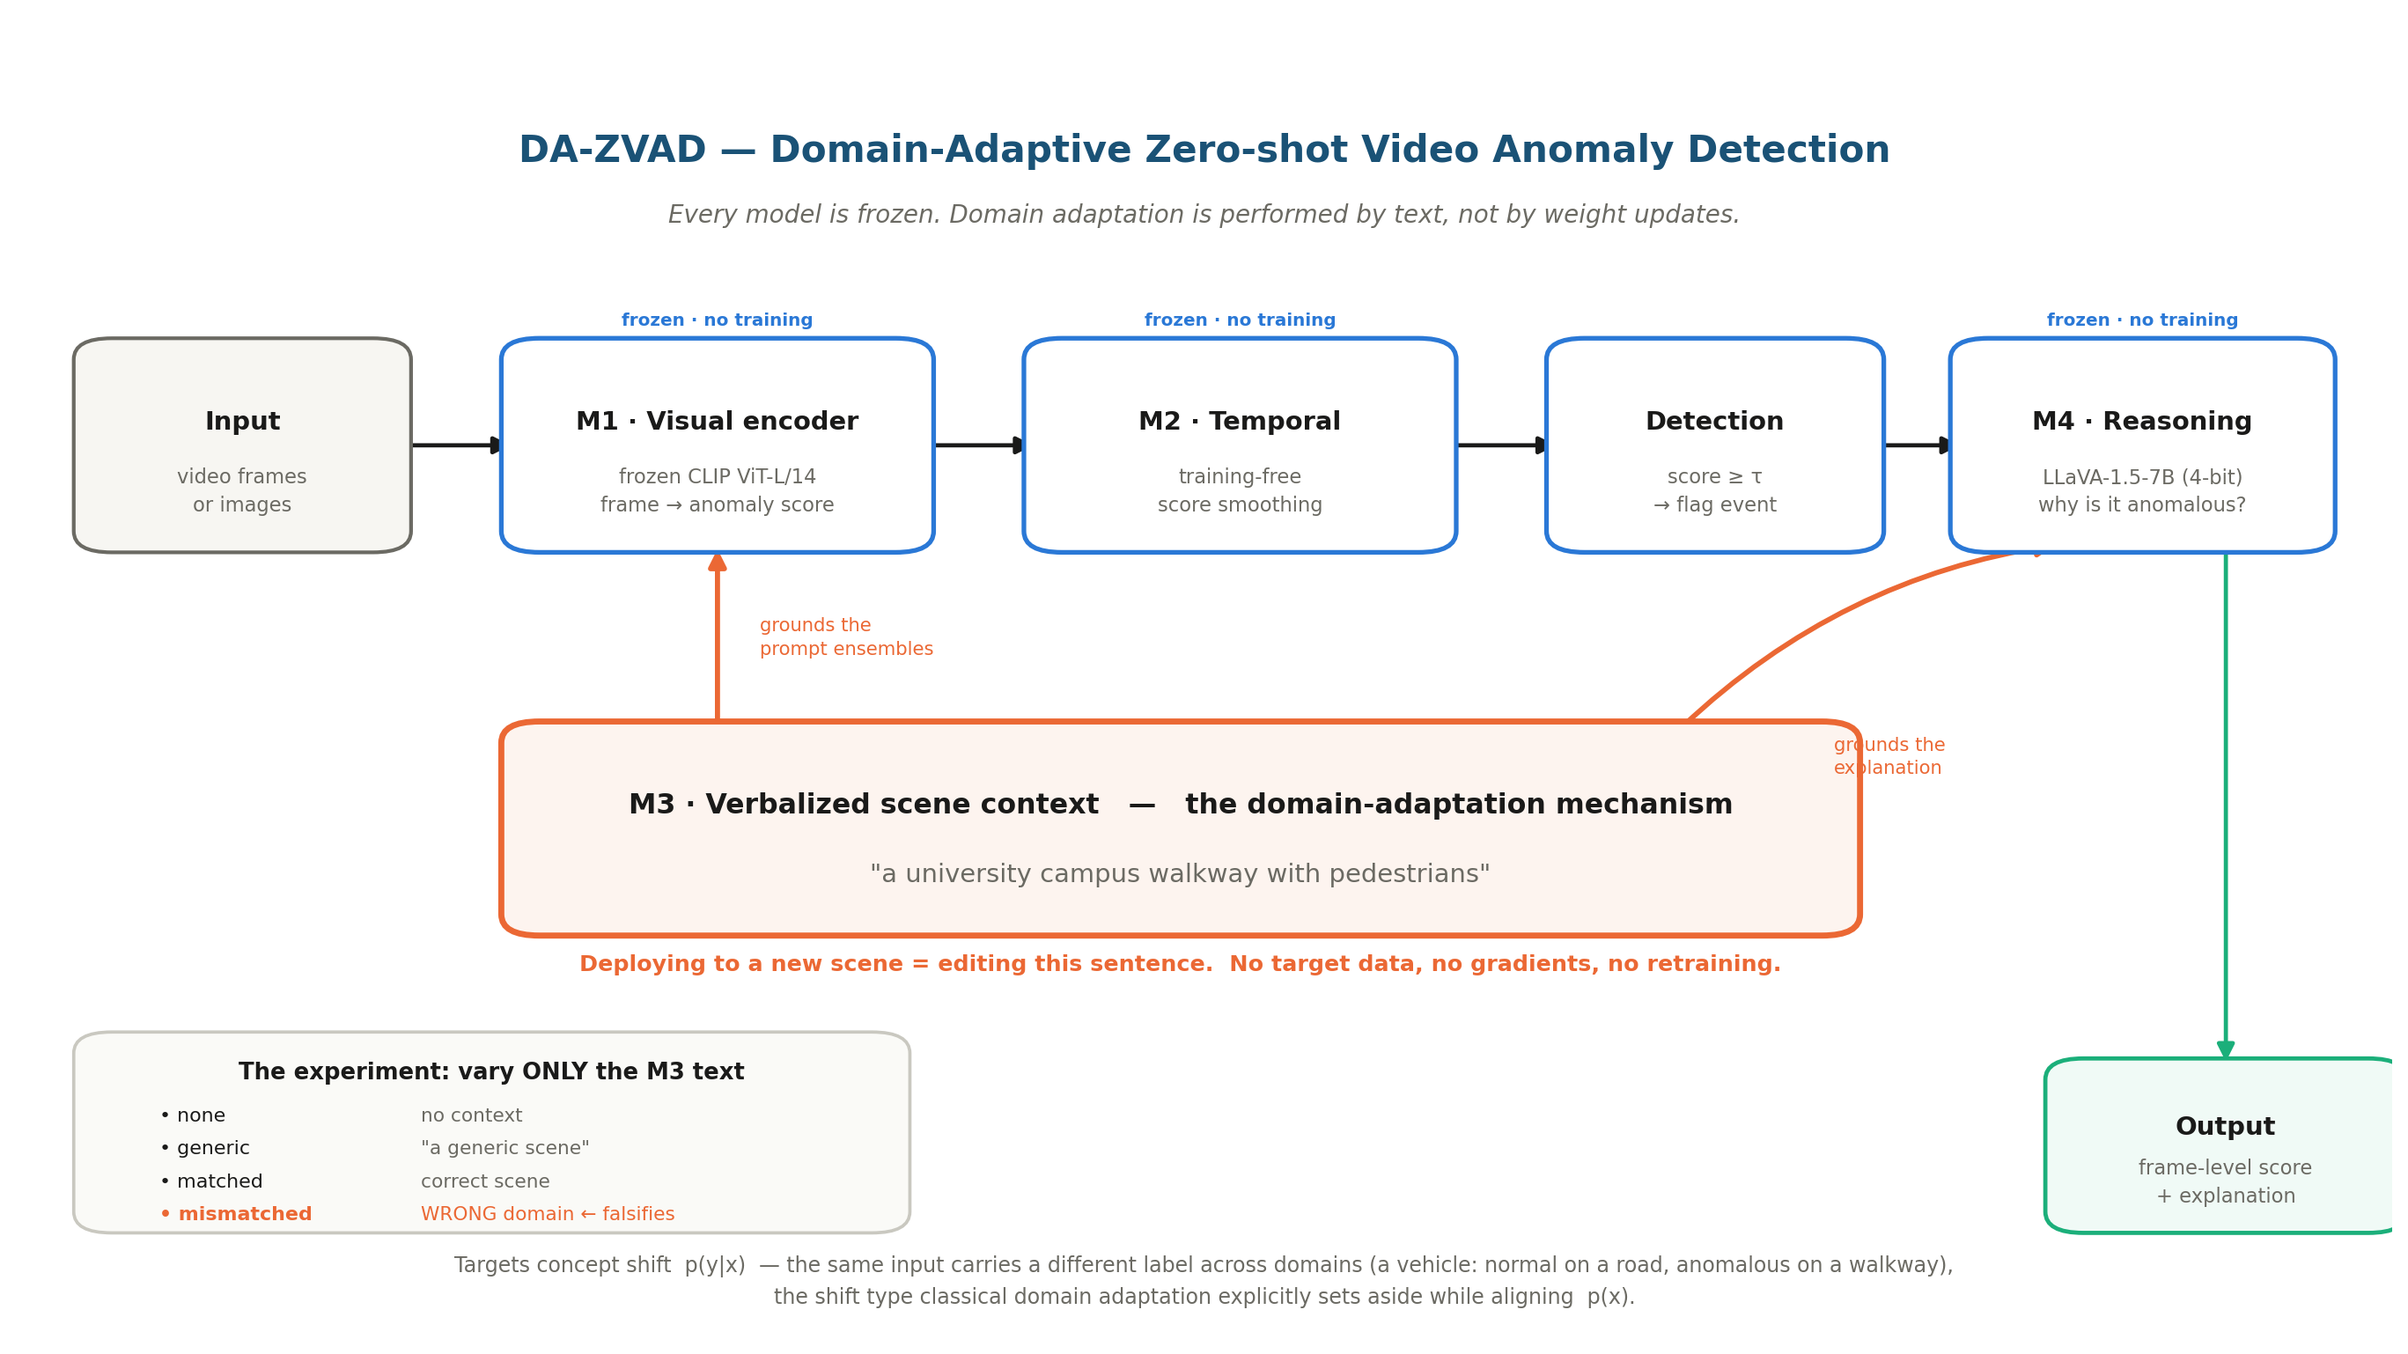
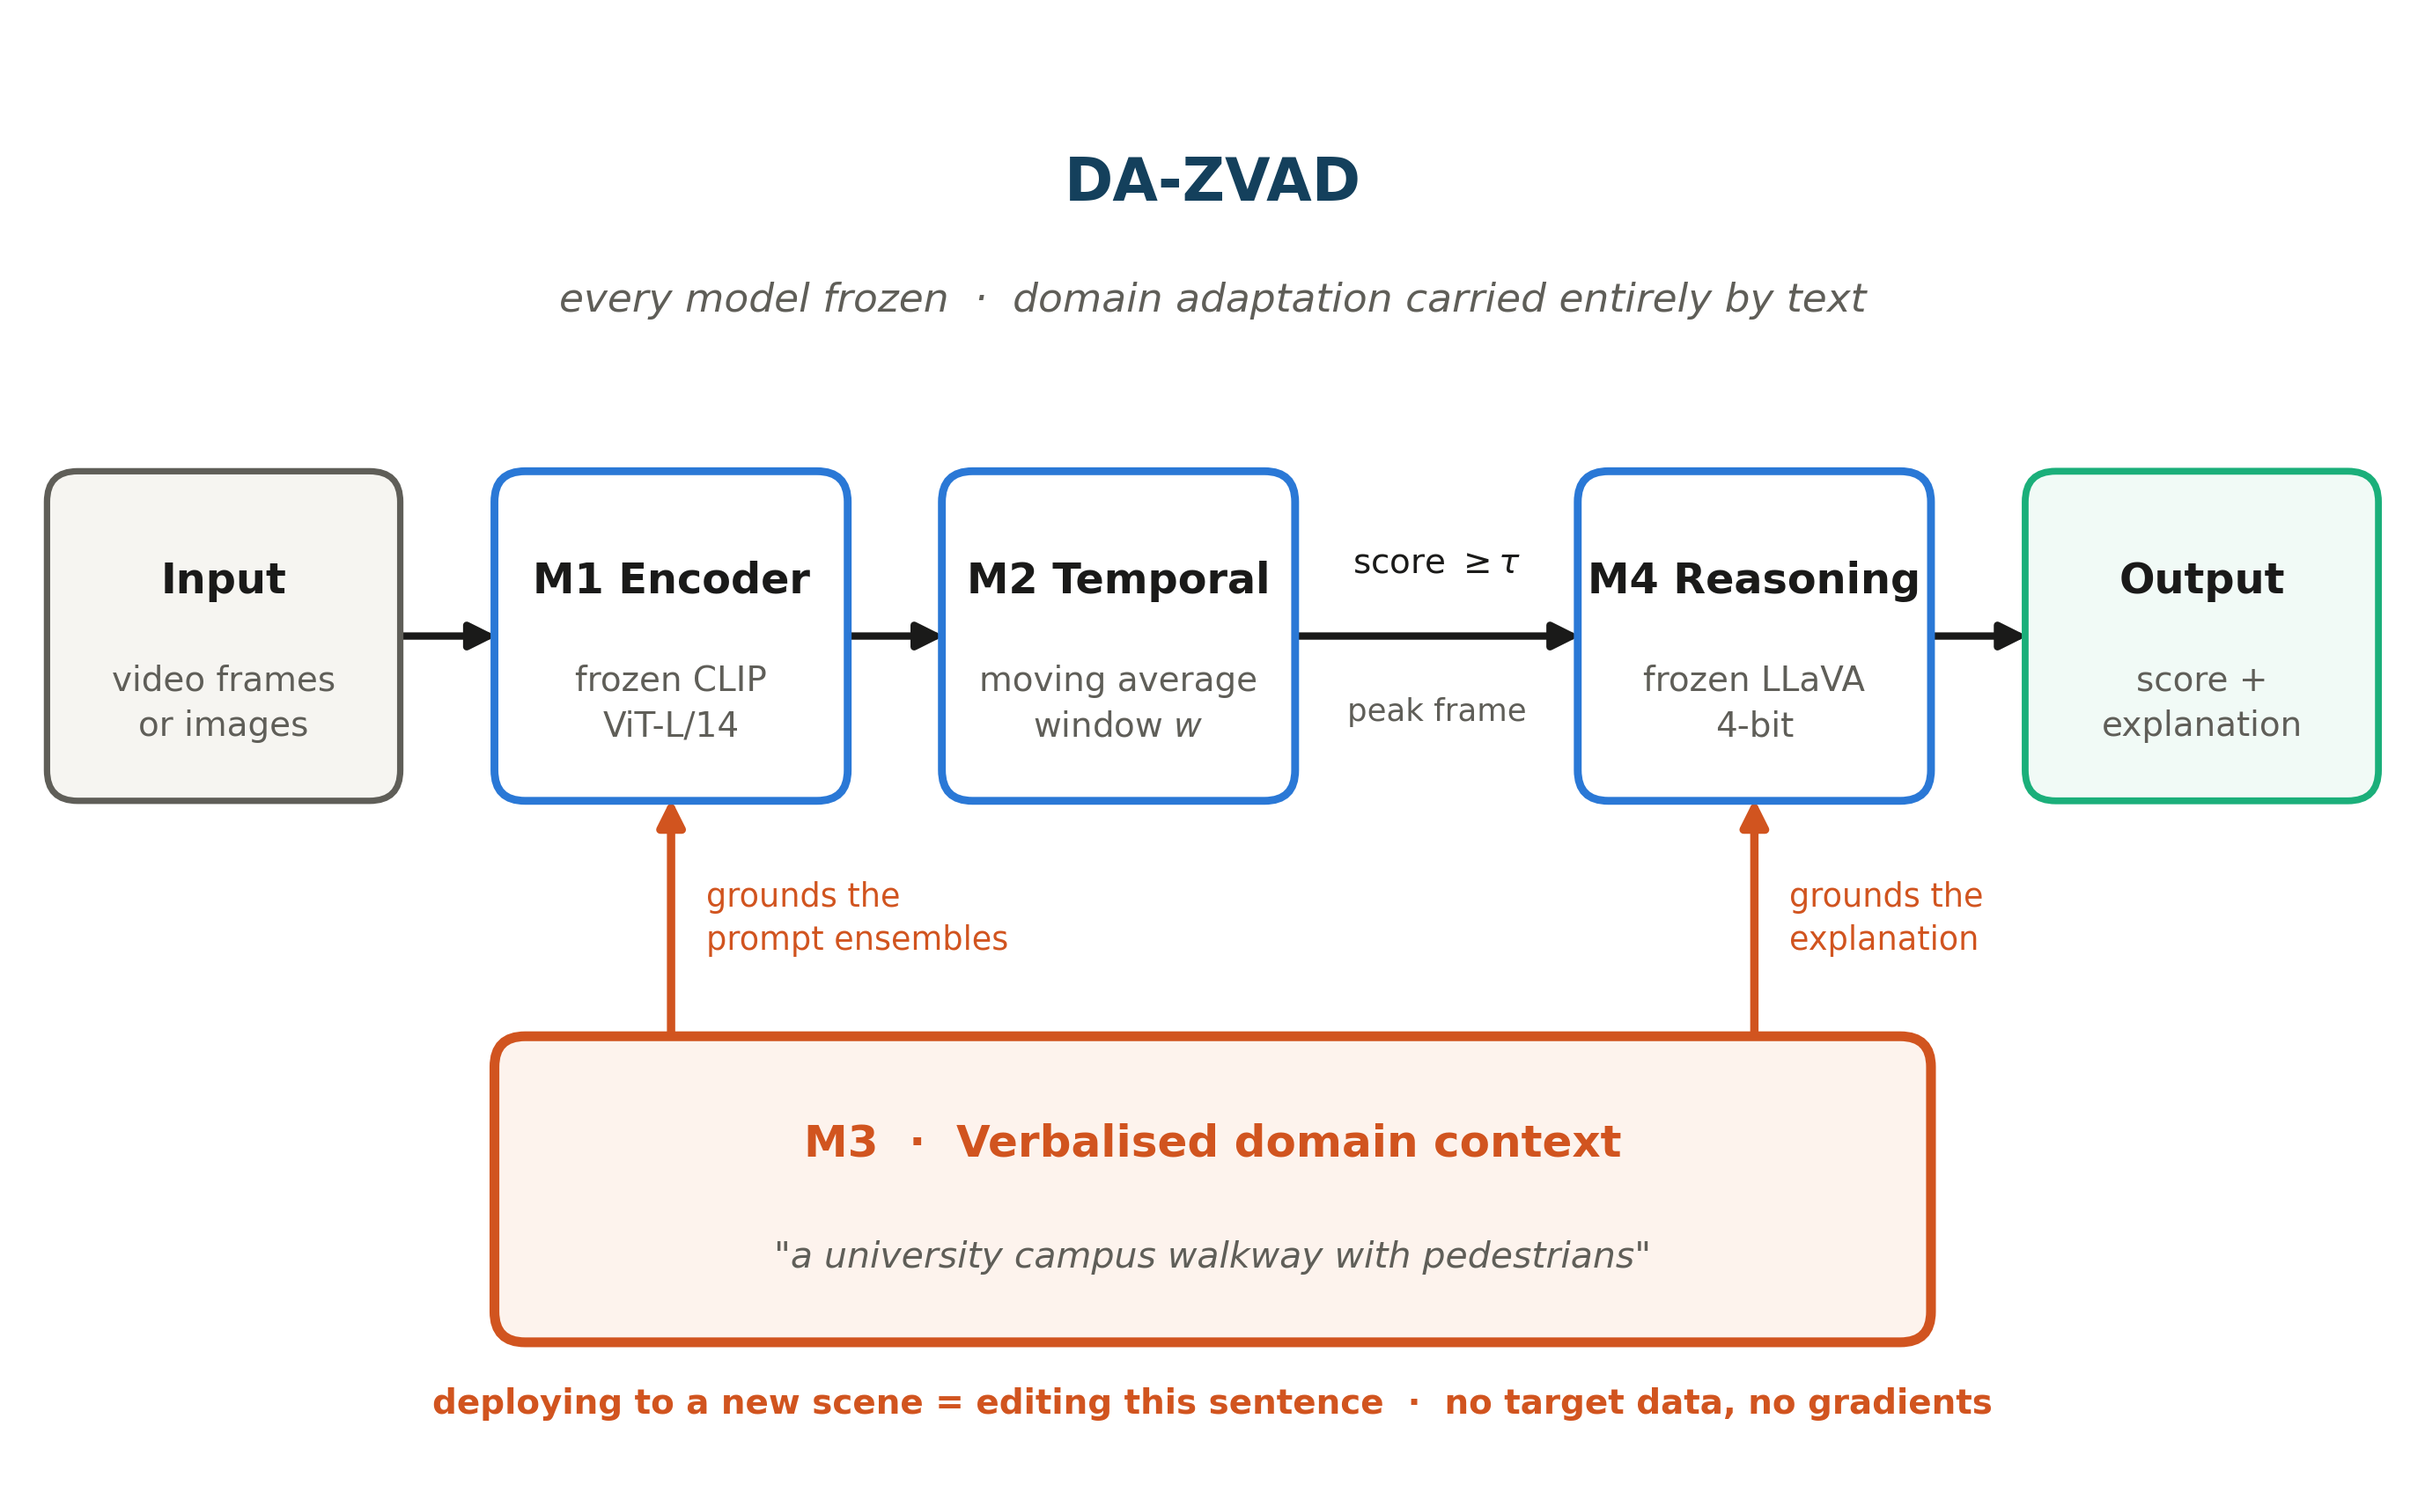
Redraw architecture diagram legibly at single-column print size
The previous figure was drawn 14.5in wide and then scaled into a ~6.3in text
column, shrinking every label by roughly 2.3x and rendering the text unreadable
in the compiled PDF. Redrawn at 6.88in so the scale factor is 0.92 -- text
prints at essentially its designed size.

Changes: dropped the four-variant inset (it duplicates the context-sweep table
in the paper) and the long framing caption (the LaTeX caption covers it);
merged the separate detection box into a threshold label on the arrow;
widened the M2-to-M4 gap so that label sits clear of both boxes; replaced the
per-box frozen tags with one subtitle line; raised effective font sizes
throughout; rendered at 400 dpi.

Copy in 06_presentations and the generator script kept in sync.

diff --git a/scripts/make_architecture_diagram.py b/scripts/make_architecture_diagram.py
@@ -1,99 +1,98 @@
 # -*- coding: utf-8 -*-
-"""DA-ZVAD architecture diagram."""
+"""DA-ZVAD architecture diagram, sized for a single-column paper.
+
+Designed at ~6.8in wide so that \\includegraphics[width=\\linewidth] in a
+single-column A4 layout applies almost no downscaling -- the previous 14.5in
+version was shrunk ~2.3x and became unreadable in print.
+"""
 import matplotlib
 matplotlib.use("Agg")
 import matplotlib.pyplot as plt
 from matplotlib.patches import FancyBboxPatch, FancyArrowPatch
 
-BLUE, AQUA, ORANGE = "#2a78d6", "#1baf7a", "#eb6834"
-INK, MUTED, LINE = "#1a1a19", "#6b6a63", "#c9c8c0"
-NAVY = "#1A5276"
+BLUE, AQUA, ORANGE = "#2a78d6", "#1baf7a", "#d1541f"
+INK, MUTED = "#1a1a19", "#5f5e58"
+NAVY = "#14405c"
 
-fig, ax = plt.subplots(figsize=(14.5, 8.2))
-ax.set_xlim(0, 100); ax.set_ylim(0, 100); ax.axis("off")
+FIG_W, FIG_H = 6.8, 4.15
+fig, ax = plt.subplots(figsize=(FIG_W, FIG_H))
+ax.set_xlim(0, 100)
+ax.set_ylim(0, 100 * FIG_H / FIG_W)      # keeps geometry square
+ax.set_aspect("equal")
+ax.axis("off")
 
-def box(x, y, w, h, title, sub=None, color=BLUE, fill="white", lw=2.0,
-        tsize=11, ssize=8.6, tcolor=None):
-    ax.add_patch(FancyBboxPatch((x, y), w, h, boxstyle="round,pad=0.6,rounding_size=1.6",
-                                linewidth=lw, edgecolor=color, facecolor=fill, zorder=3))
-    ax.text(x + w/2, y + h*(0.62 if sub else 0.5), title, ha="center", va="center",
-            fontsize=tsize, fontweight="bold", color=tcolor or INK, zorder=4)
-    if sub:
-        ax.text(x + w/2, y + h*0.27, sub, ha="center", va="center",
-                fontsize=ssize, color=MUTED, zorder=4, linespacing=1.5)
+def box(x, y, w, h, title, sub, edge, face="white", lw=1.6,
+        tsize=8.6, ssize=7.0, tcol=None):
+    ax.add_patch(FancyBboxPatch((x, y), w, h,
+                                boxstyle="round,pad=0.5,rounding_size=1.3",
+                                linewidth=lw, edgecolor=edge, facecolor=face,
+                                zorder=3))
+    ax.text(x + w / 2, y + h * 0.68, title, ha="center", va="center",
+            fontsize=tsize, fontweight="bold", color=tcol or INK, zorder=4)
+    ax.text(x + w / 2, y + h * 0.28, sub, ha="center", va="center",
+            fontsize=ssize, color=MUTED, zorder=4, linespacing=1.45)
 
-def arrow(x1, y1, x2, y2, color=INK, style="-|>", lw=1.8, ls="-", rad=0.0):
-    ax.add_patch(FancyArrowPatch((x1, y1), (x2, y2), arrowstyle=style,
-                                 mutation_scale=15, linewidth=lw, color=color,
-                                 linestyle=ls, zorder=2,
+def arrow(x1, y1, x2, y2, color=INK, lw=1.5, rad=0.0):
+    ax.add_patch(FancyArrowPatch((x1, y1), (x2, y2),
+                                 arrowstyle="-|>", mutation_scale=11,
+                                 linewidth=lw, color=color, zorder=2,
                                  connectionstyle=f"arc3,rad={rad}"))
 
-# ---------------- title ----------------
-ax.text(50, 89, "DA-ZVAD — Domain-Adaptive Zero-shot Video Anomaly Detection",
-        ha="center", fontsize=16, fontweight="bold", color=NAVY)
-ax.text(50, 84.4, "Every model is frozen. Domain adaptation is performed by text, not by weight updates.",
-        ha="center", fontsize=10.5, color=MUTED, style="italic")
+# ---------------- headings ----------------
+ax.text(50, 54.0, "DA-ZVAD", ha="center", fontsize=12,
+        fontweight="bold", color=NAVY)
+ax.text(50, 49.3,
+        "every model frozen  ·  domain adaptation carried entirely by text",
+        ha="center", fontsize=8.2, color=MUTED, style="italic")
 
-# ---------------- main pipeline row ----------------
-Y, H = 60, 15
-box(3, Y, 13, H, "Input", "video frames\nor images", color=MUTED, fill="#f7f6f2", lw=1.6)
-box(21, Y, 17, H, "M1 · Visual encoder", "frozen CLIP ViT-L/14\nframe → anomaly score", color=BLUE)
-box(43, Y, 17, H, "M2 · Temporal", "training-free\nscore smoothing", color=BLUE)
-box(65, Y, 13, H, "Detection", "score ≥ τ\n→ flag event", color=BLUE)
-box(82, Y, 15, H, "M4 · Reasoning", "LLaVA-1.5-7B (4-bit)\nwhy is it anomalous?", color=BLUE)
+# ---------------- pipeline row ----------------
+# gaps: 5, 5, 13, 5 -- the wide one leaves room for the threshold label
+Y, H, W = 29, 13, 14
+box(1,  Y, W, H, "Input",        "video frames\nor images",    MUTED, "#f6f5f1", lw=1.3)
+box(20, Y, W, H, "M1 Encoder",   "frozen CLIP\nViT-L/14",      BLUE)
+box(39, Y, W, H, "M2 Temporal",  "moving average\nwindow $w$", BLUE)
+box(66, Y, W, H, "M4 Reasoning", "frozen LLaVA\n4-bit",        BLUE)
+box(85, Y, W, H, "Output",       "score +\nexplanation",       AQUA, "#f1faf6", lw=1.4)
 
-for x1, x2 in [(16, 21), (38, 43), (60, 65), (78, 82)]:
-    arrow(x1, Y + H/2, x2, Y + H/2)
+mid = Y + H / 2
+for x1, x2 in [(15, 20), (34, 39), (53, 66), (80, 85)]:
+    arrow(x1, mid, x2, mid)
 
-# frozen tags
-for x, w in [(21, 17), (43, 17), (82, 15)]:
-    ax.text(x + w/2, Y + H + 1.6, "frozen · no training", ha="center",
-            fontsize=7.6, color=BLUE, fontweight="bold")
+# threshold label sits in the wide gap, clear of both boxes
+ax.text(59.5, mid + 2.4, r"score $\geq \tau$", ha="center", va="bottom",
+        fontsize=7.0, color=INK)
+ax.text(59.5, mid - 2.6, "peak frame", ha="center", va="top",
+        fontsize=6.4, color=MUTED)
 
 # ---------------- M3: the adaptation mechanism ----------------
-MY, MH = 31, 15
-box(21, MY, 56, MH, "M3 · Verbalized scene context   —   the domain-adaptation mechanism",
-    '"a university campus walkway with pedestrians"',
-    color=ORANGE, fill="#fdf4ef", lw=2.6, tsize=12, ssize=11)
-ax.text(49, MY - 3.2,
-        "Deploying to a new scene = editing this sentence.  No target data, no gradients, no retraining.",
-        ha="center", fontsize=9.6, color=ORANGE, fontweight="bold")
+MY, MH = 6, 12
+ax.add_patch(FancyBboxPatch((20, MY), 60, MH,
+                            boxstyle="round,pad=0.5,rounding_size=1.3",
+                            linewidth=2.0, edgecolor=ORANGE,
+                            facecolor="#fdf3ed", zorder=3))
+ax.text(50, MY + MH * 0.66, "M3  ·  Verbalised domain context",
+        ha="center", va="center", fontsize=9.0, fontweight="bold",
+        color=ORANGE, zorder=4)
+ax.text(50, MY + MH * 0.26,
+        '"a university campus walkway with pedestrians"',
+        ha="center", va="center", fontsize=7.4, color=MUTED,
+        style="italic", zorder=4)
 
-# arrows from M3 up into M1 and M4
-arrow(29.5, MY + MH, 29.5, Y, color=ORANGE, lw=2.2)
-arrow(70, MY + MH, 86, Y, color=ORANGE, lw=2.2, rad=-0.16)
-ax.text(31.3, (MY + MH + Y)/2, "grounds the\nprompt ensembles", fontsize=8, color=ORANGE,
-        va="center", ha="left", linespacing=1.4)
-ax.text(76.5, MY + MH - 0.5, "grounds the\nexplanation", fontsize=8, color=ORANGE,
-        va="top", ha="left", linespacing=1.4)
+# arrows from M3 up into M1 and M4 (aligned with their box centres)
+arrow(27, MY + MH, 27, Y, color=ORANGE, lw=1.7)
+arrow(73, MY + MH, 73, Y, color=ORANGE, lw=1.7)
+ax.text(28.5, (MY + MH + Y) / 2, "grounds the\nprompt ensembles",
+        fontsize=6.6, color=ORANGE, va="center", ha="left", linespacing=1.4)
+ax.text(74.5, (MY + MH + Y) / 2, "grounds the\nexplanation",
+        fontsize=6.6, color=ORANGE, va="center", ha="left", linespacing=1.4)
 
-# ---------------- outputs ----------------
-box(86, 8.5, 14, 12, "Output", "frame-level score\n+ explanation", color=AQUA,
-    fill="#f0faf6", lw=1.8)
-arrow(93, Y, 93, 20.5, color=AQUA, lw=1.8)
+# ---------------- footer ----------------
+ax.text(50, MY - 2.4,
+        "deploying to a new scene = editing this sentence"
+        "  ·  no target data, no gradients",
+        ha="center", va="top", fontsize=7.0, color=ORANGE, fontweight="bold")
 
-# ---------------- experiment inset ----------------
-ax.add_patch(FancyBboxPatch((3, 8.5), 34, 14, boxstyle="round,pad=0.6,rounding_size=1.6",
-                            linewidth=1.4, edgecolor=LINE, facecolor="#fafaf7", zorder=3))
-ax.text(20, 19.6, "The experiment: vary ONLY the M3 text", ha="center",
-        fontsize=9.8, fontweight="bold", color=INK, zorder=4)
-variants = [("none", "no context"), ("generic", '"a generic scene"'),
-            ("matched", "correct scene"), ("mismatched", "WRONG domain ← falsifies")]
-for i, (nm, desc) in enumerate(variants):
-    yy = 16.4 - i*2.5
-    ax.text(6, yy, f"• {nm}", fontsize=8.4, color=ORANGE if nm == "mismatched" else INK,
-            fontweight="bold" if nm == "mismatched" else "normal", zorder=4)
-    ax.text(17, yy, desc, fontsize=8.2,
-            color=ORANGE if nm == "mismatched" else MUTED, zorder=4)
-
-# ---------------- framing note ----------------
-ax.text(50, 2.6,
-        "Targets concept shift  p(y|x)  — the same input carries a different label across domains "
-        "(a vehicle: normal on a road, anomalous on a walkway),\nthe shift type classical domain adaptation "
-        "explicitly sets aside while aligning  p(x).",
-        ha="center", fontsize=9, color=MUTED, linespacing=1.6)
-
-fig.tight_layout()
-out = r"p:\Research\multimodal-anomaly-detection\docs\06_presentations\dazvad_architecture.png"
-fig.savefig(out, dpi=190, bbox_inches="tight", facecolor="white")
-print("saved:", out)
+fig.tight_layout(pad=0.25)
+out = r"p:\Research\multimodal-anomaly-detection\docs\09_paper\dazvad_architecture.png"
+fig.savefig(out, dpi=400, bbox_inches="tight", facecolor="white")
+print("saved:", out, f"({FIG_W}x{FIG_H} in @ 400 dpi)")
